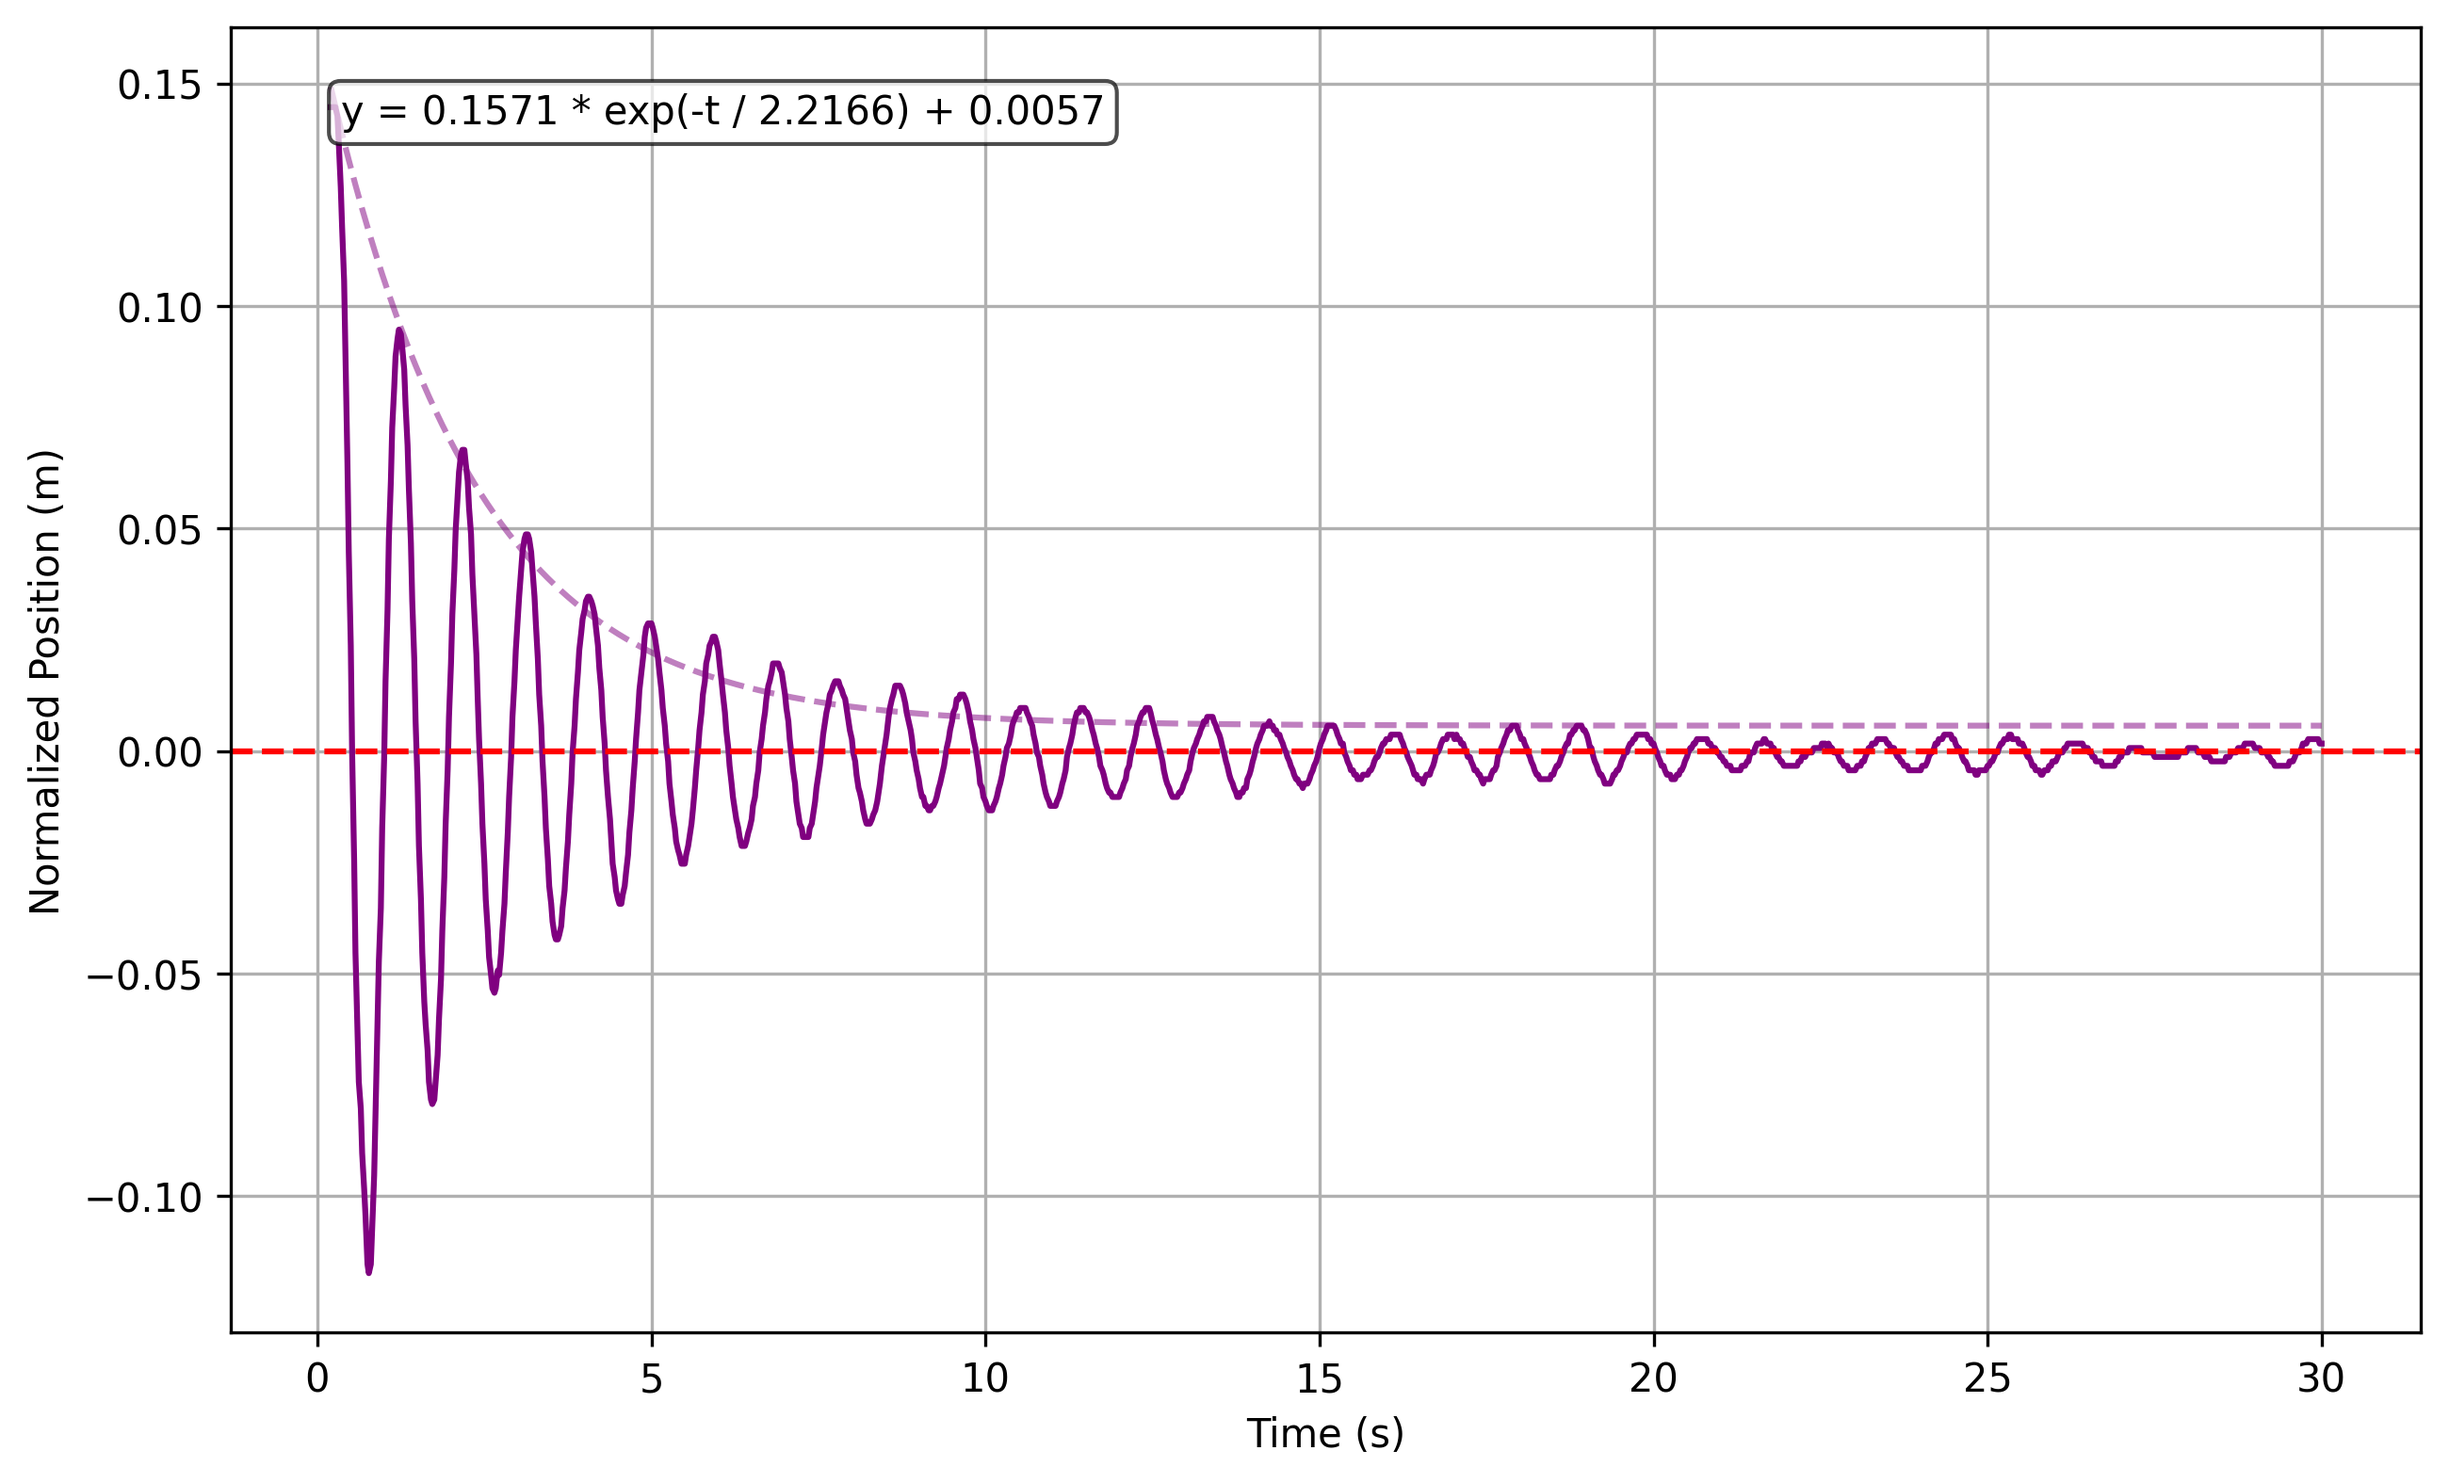
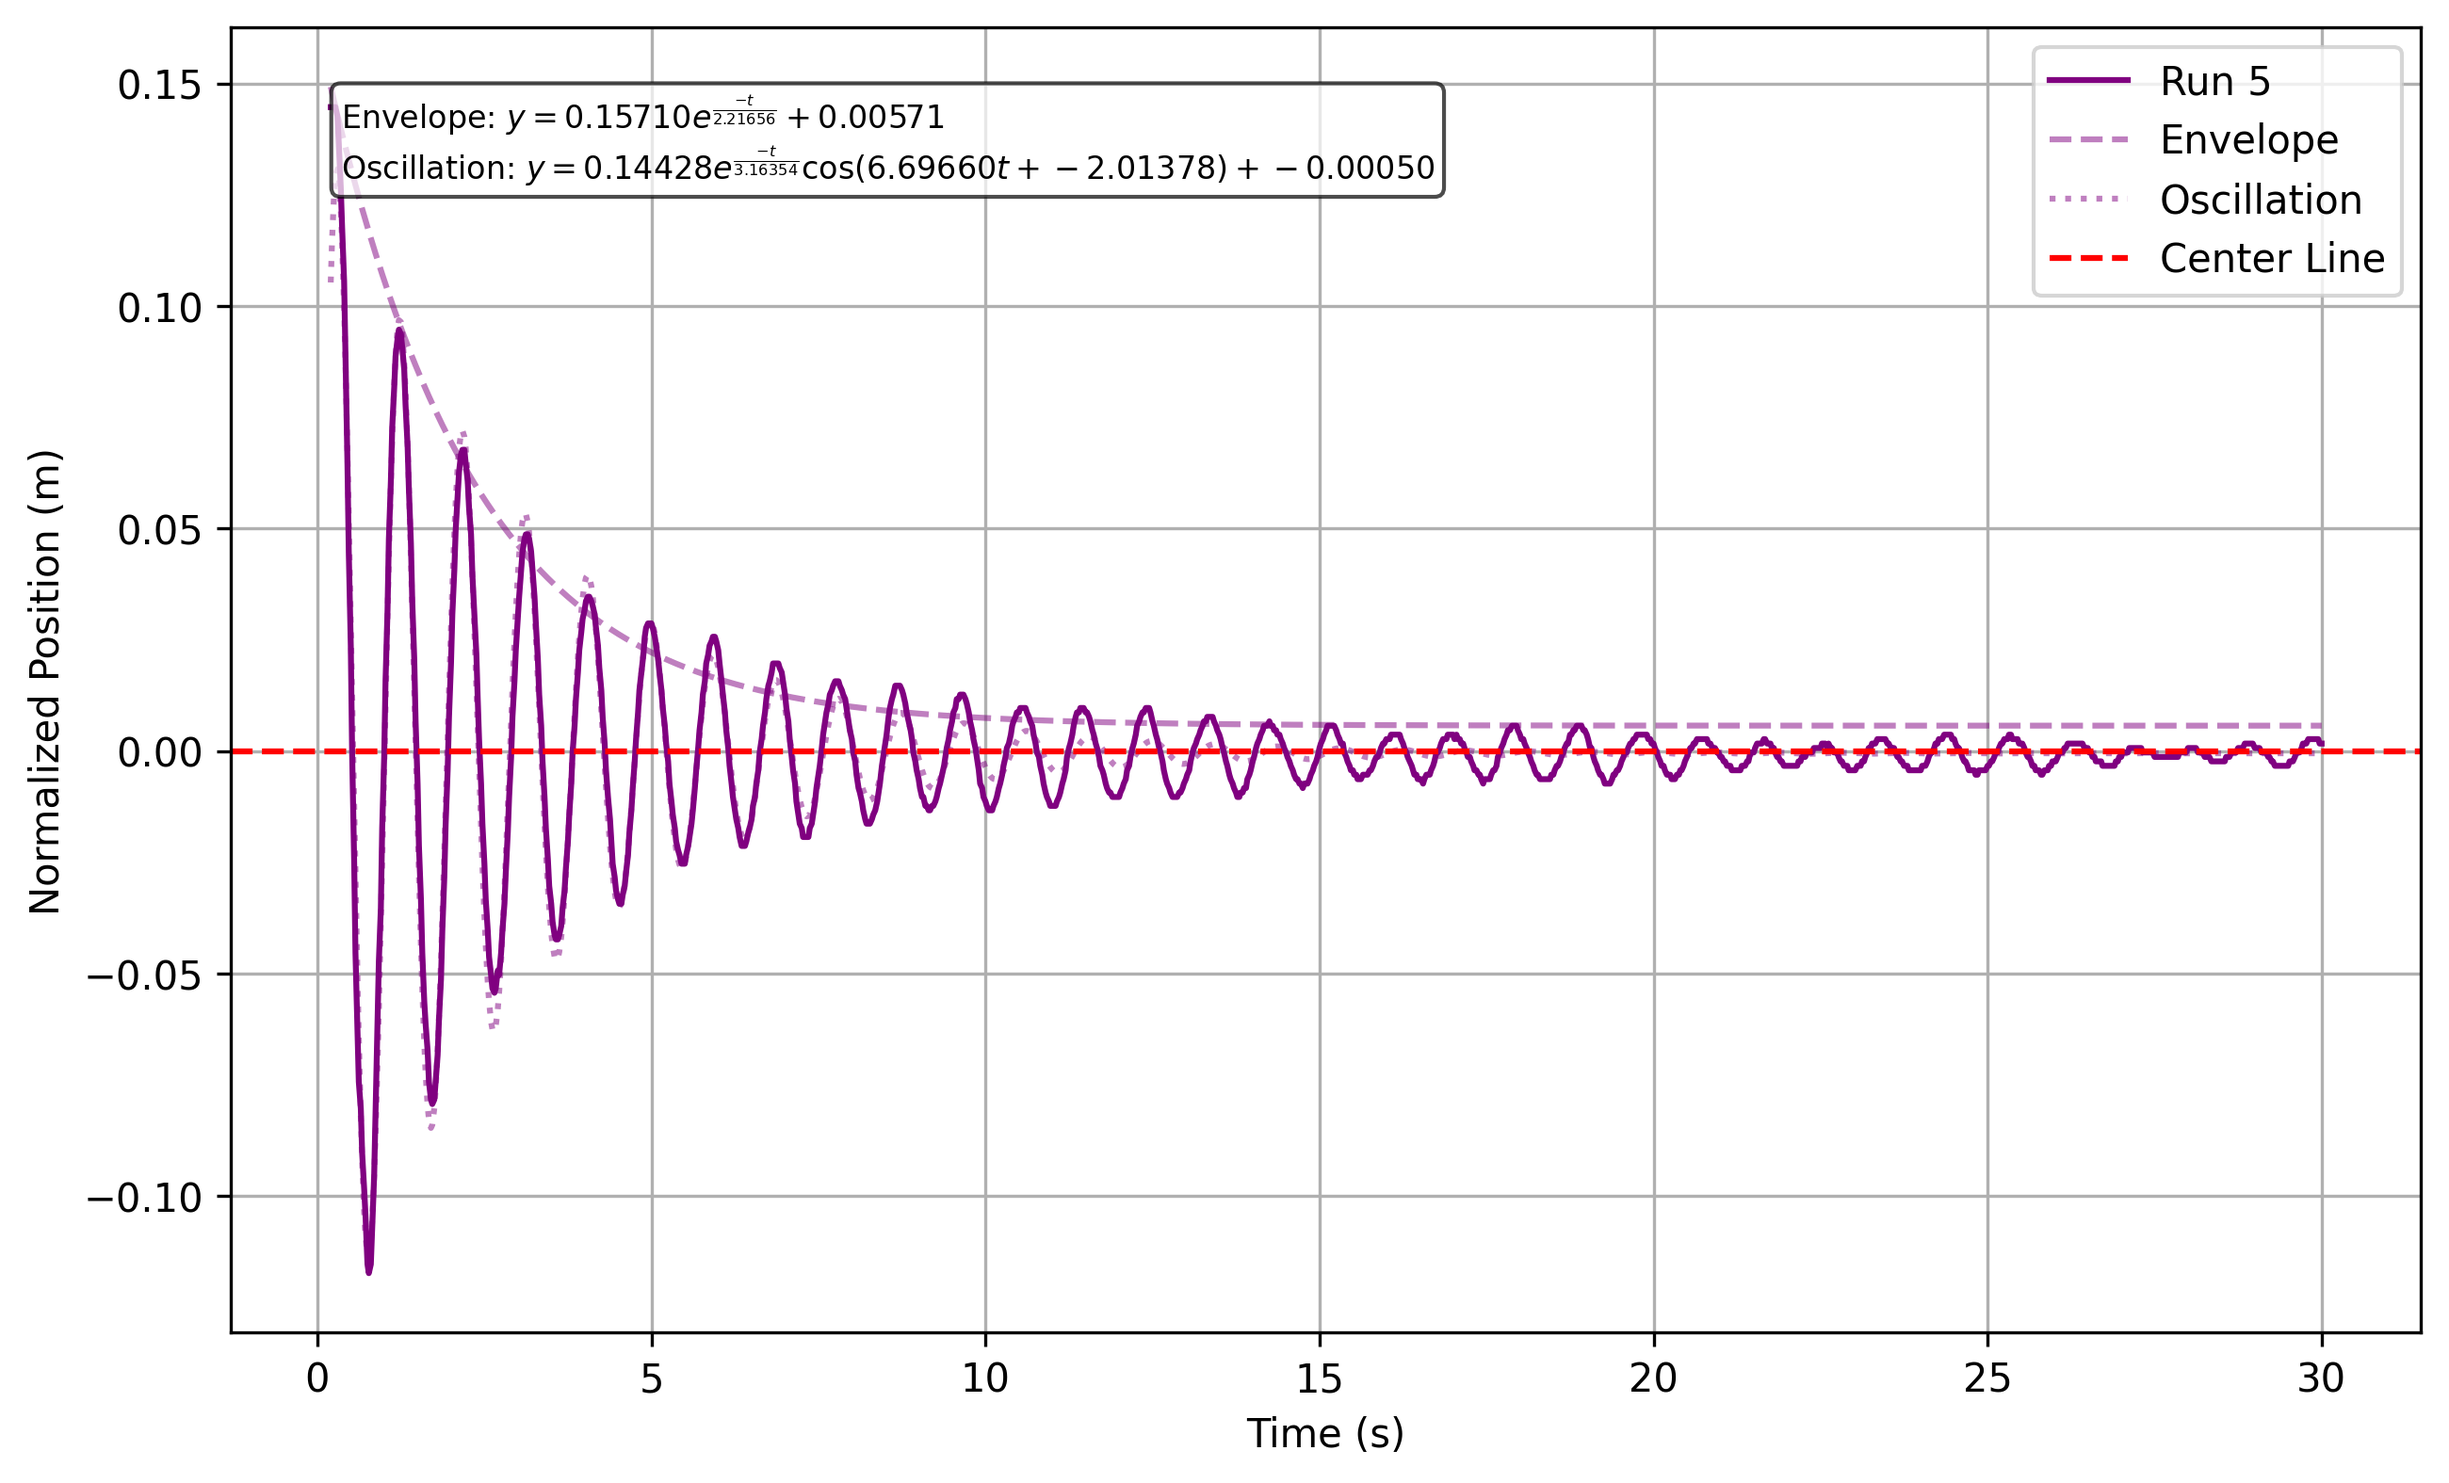
Lab 2 stuff

Changed region(s): [[0.1246, 0.0311, 0.5919, 0.1556], [0.81, 0.0311, 0.9969, 0.1867], [0.5296, 0.0933, 0.5919, 0.1244]]

diff --git a/Lab2/analysis.py b/Lab2/analysis.py
@@ -11,10 +11,15 @@ run_starts = [i for i, line in enumerate(content) if line.strip() == 'Vernier Fo
 all_runs_time = []
 all_runs_position = []
 all_runs_envelope = []
-all_runs_equations = []
+all_runs_oscillate = []
+all_runs_envelope_equations = []
+all_runs_oscillate_equations = []
 
 def exp_decay(t, A, tau, C):
     return A * np.exp(-t / tau) + C
+
+def oscillation(t, A, tau, C, w, p):
+    return A * np.exp(-t / tau) * np.cos(w * t + p) + C
 
 for i in range(len(run_starts)):
     start = run_starts[i] + 8
@@ -38,54 +43,102 @@ for i in range(len(run_starts)):
     peak_times = run_data[peaks, 0]
     peak_positions = np.abs(normalized_position[peaks])
     
-    popt, _ = curve_fit(exp_decay, peak_times, peak_positions, p0=[np.max(peak_positions), 1, 0])
-    A, tau, C = popt
+    # Fit oscillation
+    try:
+        popt_osc, _ = curve_fit(oscillation, run_data[:, 0], normalized_position, p0=[np.max(np.abs(normalized_position)), 1, 0, 2*np.pi, 0], maxfev=10000)
+        A_osc, tau_osc, C_osc, w, p = popt_osc
+        w = abs(w)  # Ensure positive frequency
+    except RuntimeError:
+        print(f"Warning: Optimal parameters not found for oscillation in run {i+1}. Using initial guesses.")
+        A_osc, tau_osc, C_osc, w, p = np.max(peak_positions), 1, 0, 2*np.pi, 0
     
-    envelope = exp_decay(run_data[:, 0], A, tau, C)
+    # Fit envelope
+    try:
+        popt_env, _ = curve_fit(exp_decay, peak_times, peak_positions, p0=[np.max(peak_positions), 1, 0], maxfev=10000)
+        A_env, tau_env, C_env = popt_env
+    except RuntimeError:
+        print(f"Warning: Optimal parameters not found for envelope in run {i+1}. Using initial guesses.")
+        A_env, tau_env, C_env = np.max(peak_positions), 1, 0
+    
+    envelope = exp_decay(run_data[:, 0], A_env, tau_env, C_env)
+    oscillate = oscillation(run_data[:, 0], A_osc, tau_osc, C_osc, w, p)
     
     all_runs_time.append(run_data[:, 0])
     all_runs_position.append(normalized_position)
     all_runs_envelope.append(envelope)
-    all_runs_equations.append(f"y = {A:.4f} * exp(-t / {tau:.4f}) + {C:.4f}")
+    all_runs_oscillate.append(oscillate)
+    all_runs_envelope_equations.append(f"$y = {A_env:.5f} e^{{\\frac{{-t}}{{{tau_env:.5f}}}}} + {C_env:.5f}$")
+    all_runs_oscillate_equations.append(f"$y = {A_osc:.5f} e^{{\\frac{{-t}}{{{tau_osc:.5f}}}}} \cos({w:.5f}t + {p:.5f}) + {C_osc:.5f}$")
 
 fig, ax = plt.subplots(figsize=(10, 6))
 lines = []
 envelope_lines = []
+oscillate_lines = []
 equation_texts = []
 for i in range(len(all_runs_time)):
     line, = ax.plot(all_runs_time[i], all_runs_position[i])
     env_line, = ax.plot(all_runs_time[i], all_runs_envelope[i], '--', color=line.get_color(), alpha=0.5)
+    osc_line, = ax.plot(all_runs_time[i], all_runs_oscillate[i], ':', color=line.get_color(), alpha=0.5)
     lines.append(line)
     envelope_lines.append(env_line)
+    oscillate_lines.append(osc_line)
     
     # Add equation text
-    eq_text = ax.text(0.05, 0.95 - i*0.05, all_runs_equations[i], transform=ax.transAxes, 
-                      fontsize=8, verticalalignment='top', bbox=dict(boxstyle='round', facecolor='white', alpha=0.7))
+    eq_text = ax.text(0.05, 0.95 - i*0.1, all_runs_envelope_equations[i] + '\n' + all_runs_oscillate_equations[i], 
+                      transform=ax.transAxes, fontsize=8, verticalalignment='top', 
+                      bbox=dict(boxstyle='round', facecolor='white', alpha=0.7))
     equation_texts.append(eq_text)
 
 ax.set_xlabel('Time (s)')
 ax.set_ylabel('Normalized Position (m)')
-ax.set_title('Oscillating Springs Damped by Discs')
 ax.grid(True)
 ax.axhline(y=0, color='r', linestyle='--', label='Center Line')
 
-rax = plt.axes([0.85, 0.02, 0.12, 0.15])
-labels = [f'{(i+1)*2} cm Disc' for i in range(len(all_runs_time))]
-visibility = [True] * len(lines)
+rax = plt.axes([0.85, 0.02, 0.12, 0.25])
+labels = [f'{(i+1)*2} cm Disc' for i in range(len(all_runs_time))] + ['Envelope', 'Oscillation']
+visibility = [True] * len(lines) + [True, True]
 check = CheckButtons(rax, labels, visibility)
 
 def func(label):
-    index = labels.index(label)
-    lines[index].set_visible(not lines[index].get_visible())
-    envelope_lines[index].set_visible(lines[index].get_visible())
-    equation_texts[index].set_visible(lines[index].get_visible())
+    if label == 'Envelope':
+        env_visible = not envelope_lines[0].get_visible()
+        for env_line in envelope_lines:
+            env_line.set_visible(env_visible)
+        update_equation_visibility()
+    elif label == 'Oscillation':
+        osc_visible = not oscillate_lines[0].get_visible()
+        for osc_line in oscillate_lines:
+            osc_line.set_visible(osc_visible)
+        update_equation_visibility()
+    else:
+        index = labels.index(label)
+        lines[index].set_visible(not lines[index].get_visible())
+        envelope_lines[index].set_visible(lines[index].get_visible() and check.get_status()[labels.index('Envelope')])
+        oscillate_lines[index].set_visible(lines[index].get_visible() and check.get_status()[labels.index('Oscillation')])
+        update_equation_visibility()
     plt.draw()
+
+def update_equation_visibility():
+    env_visible = check.get_status()[labels.index('Envelope')]
+    osc_visible = check.get_status()[labels.index('Oscillation')]
+    for i, eq_text in enumerate(equation_texts):
+        if lines[i].get_visible():
+            eq_parts = eq_text.get_text().split('\n')
+            visible_parts = []
+            if env_visible:
+                visible_parts.append(eq_parts[0])
+            if osc_visible:
+                visible_parts.append(eq_parts[1])
+            eq_text.set_text('\n'.join(visible_parts))
+            eq_text.set_visible(bool(visible_parts))
+        else:
+            eq_text.set_visible(False)
 
 check.on_clicked(func)
 
-for i, eq in enumerate(all_runs_equations):
+for i, eq in enumerate(all_runs_envelope_equations):
     print(f"Run {i+1} envelope equation: {eq}")
-
+    print(f"Run {i+1} oscillation equation: {all_runs_oscillate_equations[i]}")
 
 # Export individual graphs for each run
 colors = ['green', 'orange', 'blue', 'red', 'purple']
@@ -97,18 +150,41 @@ for i in range(len(all_runs_time)):
     
     ax.plot(all_runs_time[i], all_runs_position[i], label=f'Run {i+1}', color=color)
     ax.plot(all_runs_time[i], all_runs_envelope[i], '--', alpha=0.5, label='Envelope', color=color)
+    ax.plot(all_runs_time[i], all_runs_oscillate[i], ':', alpha=0.5, label='Oscillation', color=color)
     
     ax.set_xlabel('Time (s)')
     ax.set_ylabel('Normalized Position (m)')
-    # ax.set_title(f'Oscillating Spring Damped by a {(i+1)*2} cm Disc')
     ax.grid(True)
     ax.axhline(y=0, color='r', linestyle='--', label='Center Line')
     
-    ax.text(0.05, 0.95, all_runs_equations[i], transform=ax.transAxes, 
-            fontsize=10, verticalalignment='top', bbox=dict(boxstyle='round', facecolor='white', alpha=0.7))
+    # Add equation text
+    ax.text(0.05, 0.95, f"Envelope: {all_runs_envelope_equations[i]}\nOscillation: {all_runs_oscillate_equations[i]}", 
+            transform=ax.transAxes, fontsize=8, verticalalignment='top', 
+            bbox=dict(boxstyle='round', facecolor='white', alpha=0.7))
+    
+    ax.legend()
     
     # Save the figure
     plt.savefig(f'images/{(i+1)*2}cm.png', dpi=300, bbox_inches='tight')
     plt.close(fig)
+
+# Create an overlay of all runs
+fig, ax = plt.subplots(figsize=(10, 6))
+
+for i in range(len(all_runs_time)):
+    color = colors[i % len(colors)]
+    ax.plot(all_runs_time[i], all_runs_position[i], label=f'{(i+1)*2} cm Disc', color=color)
+    ax.plot(all_runs_time[i], all_runs_envelope[i], '--', alpha=0.5, color=color)
+    ax.plot(all_runs_time[i], all_runs_oscillate[i], ':', alpha=0.5, color=color)
+
+ax.set_xlabel('Time (s)')
+ax.set_ylabel('Normalized Position (m)')
+ax.grid(True)
+ax.axhline(y=0, color='r', linestyle='--', label='Center Line')
+ax.legend()
+
+# Save the overlay figure
+plt.savefig('images/all_runs_overlay.png', dpi=300, bbox_inches='tight')
+plt.close(fig)
 
 plt.show()

diff --git a/Lab2/journal.tex b/Lab2/journal.tex
@@ -68,9 +68,7 @@ This lab aimed to measure the coefficient of air drag as a function of cross-sec
 
 \section{Experimental Apparatus}
 
-\lipsum[1]
-
-Our general setup is illustrated in Figure \ref{fig:setup}.
+We were given a metal spring, cardstock paper, weights, string, scissors, a (drawing) compass, and a retort stand with a horizontal clamp. Our general setup is illustrated in Figure \ref{fig:setup}.
 
  \begin{figure}[h]
      \centering
@@ -79,32 +77,50 @@ Our general setup is illustrated in Figure \ref{fig:setup}.
      \label{fig:setup}
  \end{figure}
 
-\pagebreak
+% \pagebreak
 \section{Procedure}
 
-\lipsum[1]
+ We used the compass and scissors to cut out four (4) circles of 4cm, 6cm, 8cm, and 10cm. We hung the spring vertically on the horizontal retort clamp, and measured it's equilibrium position. Then we attached the weight hanger (5g) and placed 40g of weight on it. We then measured the new equilibrium position. Then we reduced the total weight on the spring to 25g to capture more exaggerated data, placed the motion sensor beneath, and did 5 30-second motion recordings. The first one had only the 25g, but the second had the 4cm disk, the third the 6cm disk, the fourth the 8cm disk, and the fifth the 10cm disk. On each run, we held the spring as far up as possible, so that the spring was at it's 0g equilibrium position. We then began recording and released it.
 
 \section{Results}
 
-\lipsum[1]
+$e^{t-x}$
 
 \begin{equation}
     F_D=3\pi \mu Dv
 \end{equation}
 
- \begin{figure}[h]
-     \centering
-     \includegraphics[width=4in]{images/4cm.png}
-     \caption{The spring with a 4 cm disc}
-     \label{fig:4cm}
- \end{figure}
+\begin{figure}[!htb]
+\centering
+\begin{subfigure}[b]{0.32\textwidth}
+  \includegraphics[width=\linewidth]{images/2cm.png}
+  \caption{Spring with only 25g}\label{fig:2cm}
+\end{subfigure}
+\hfill
+\begin{subfigure}[b]{0.32\textwidth}
+  \includegraphics[width=\linewidth]{images/4cm.png}
+  \caption{Spring with 25g and a 4cm disk}\label{fig:4cm}
+\end{subfigure}
+\hfill
+\begin{subfigure}[b]{0.32\textwidth}
+  \includegraphics[width=\linewidth]{images/6cm.png}
+  \caption{Spring with 25g and a 6cm disk}\label{fig:6cm}
+\end{subfigure}
 
-  \begin{figure}[h]
-     \centering
-     \includegraphics[width=4in]{images/10cm.png}
-     \caption{The spring with a 10 cm disc}
-     \label{fig:10cm}
- \end{figure}
+\vspace{0.5cm}
+
+\begin{subfigure}[b]{0.32\textwidth}
+  \includegraphics[width=\linewidth]{images/8cm.png}
+  \caption{Spring with 25g and an 8cm disk}\label{fig:8cm}
+\end{subfigure}
+\hfill
+\begin{subfigure}[b]{0.32\textwidth}
+  \includegraphics[width=\linewidth]{images/10cm.png}
+  \caption{Spring with 25g and a 10cm disk}\label{fig:10cm}
+\end{subfigure}
+\caption{Spring oscillations with different disk sizes}
+\label{fig:all_disks}
+\end{figure}
 
 \section{Conclusions}
 
